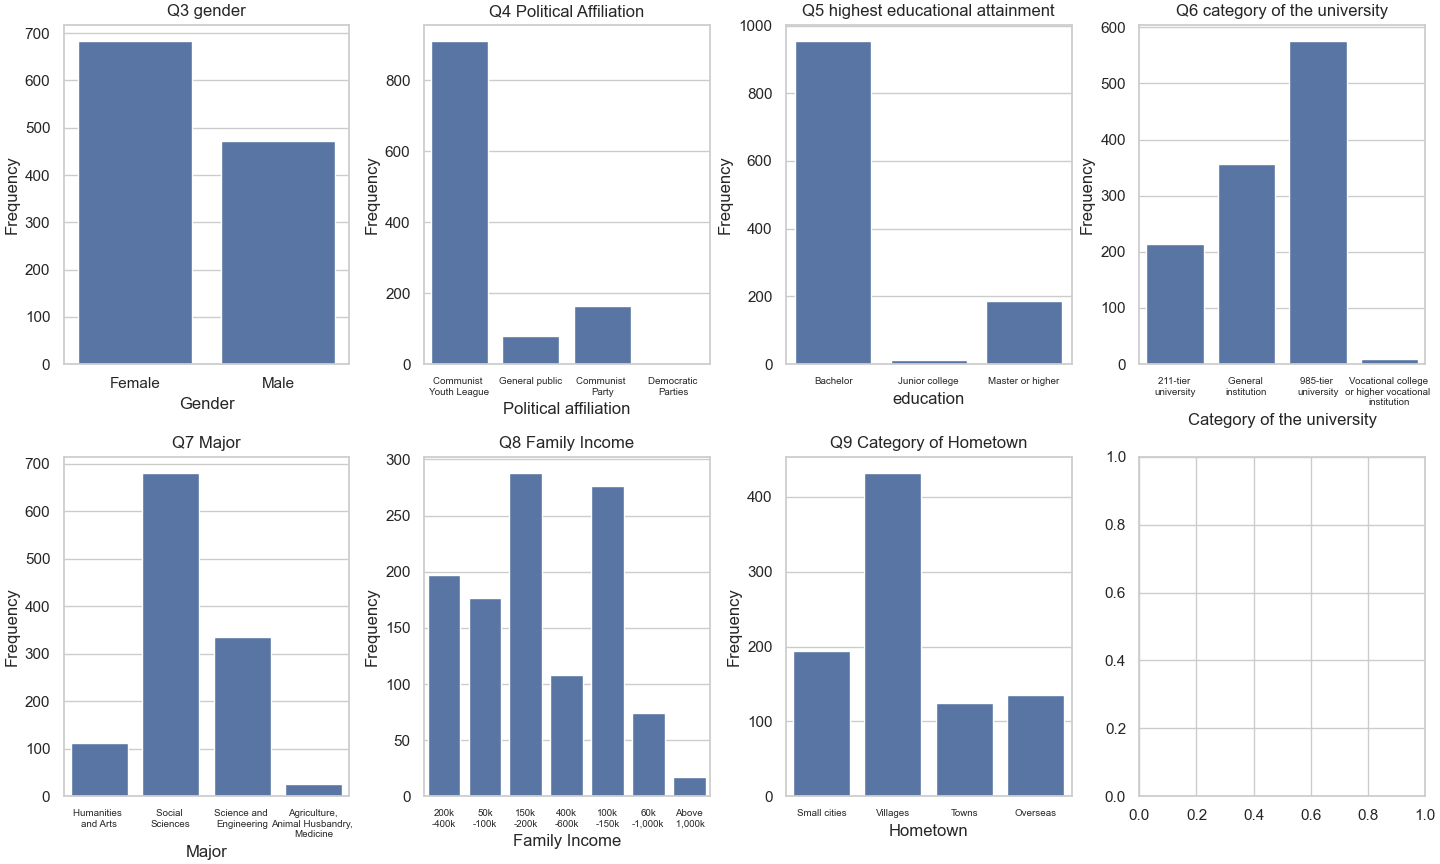
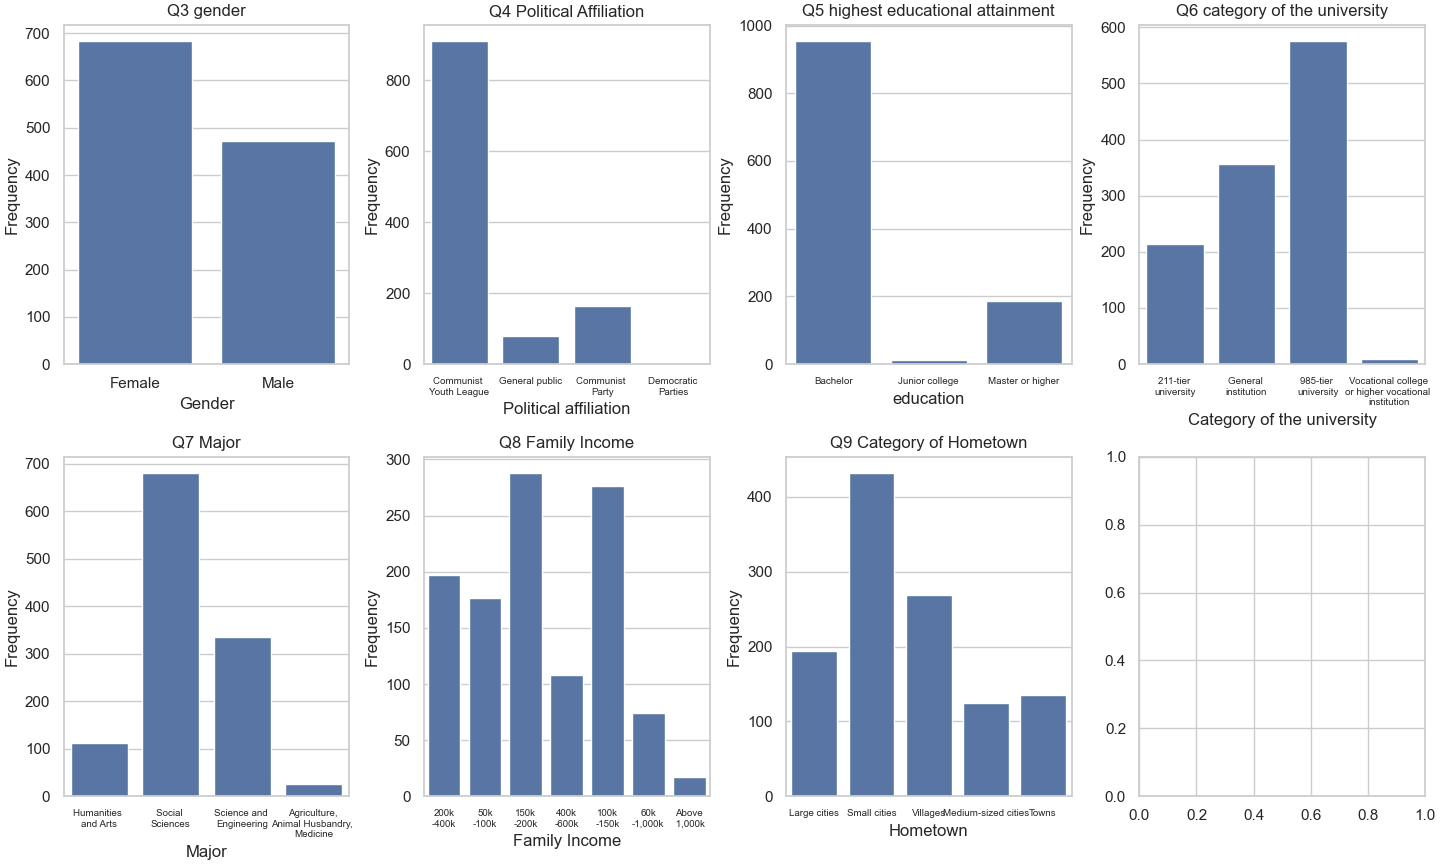
adjusted fig1

Changed region(s): [[0.5625, 0.5312, 0.7188, 0.9688]]

diff --git a/src/data/descriptive_data.py b/src/data/descriptive_data.py
@@ -66,7 +66,7 @@ axes1[1, 1].set_xlabel('Family Income')
 axes1[1, 1].set_ylabel('Frequency')
 axes1[1, 1].tick_params(axis='x', labelsize=7)
 #q9
-Hometown_mapping = {1: 'Large cities', 2: 'Medium-sized cities',3: 'Small cities',4:'Towns',5: 'Villages', 6: 'Overseas'}
+Hometown_mapping = {3: 'Large cities', 4: 'Medium-sized cities',5: 'Small cities',6:'Towns',7: 'Villages', 8: 'Overseas'}
 data['Q9_mapped']=data['Q9'].map(Hometown_mapping)
 sns.countplot(x='Q9_mapped', data=data,ax=axes1[1,2])
 axes1[1, 2].set_title('Q9 Category of Hometown')
